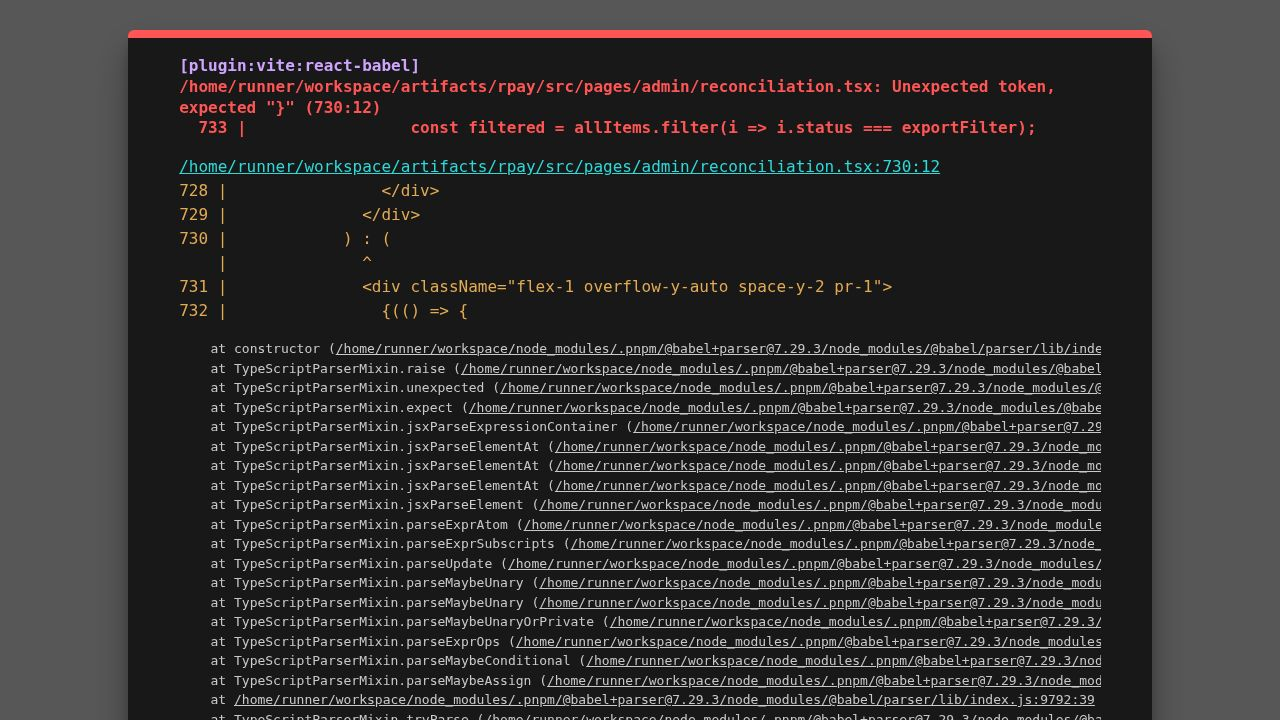
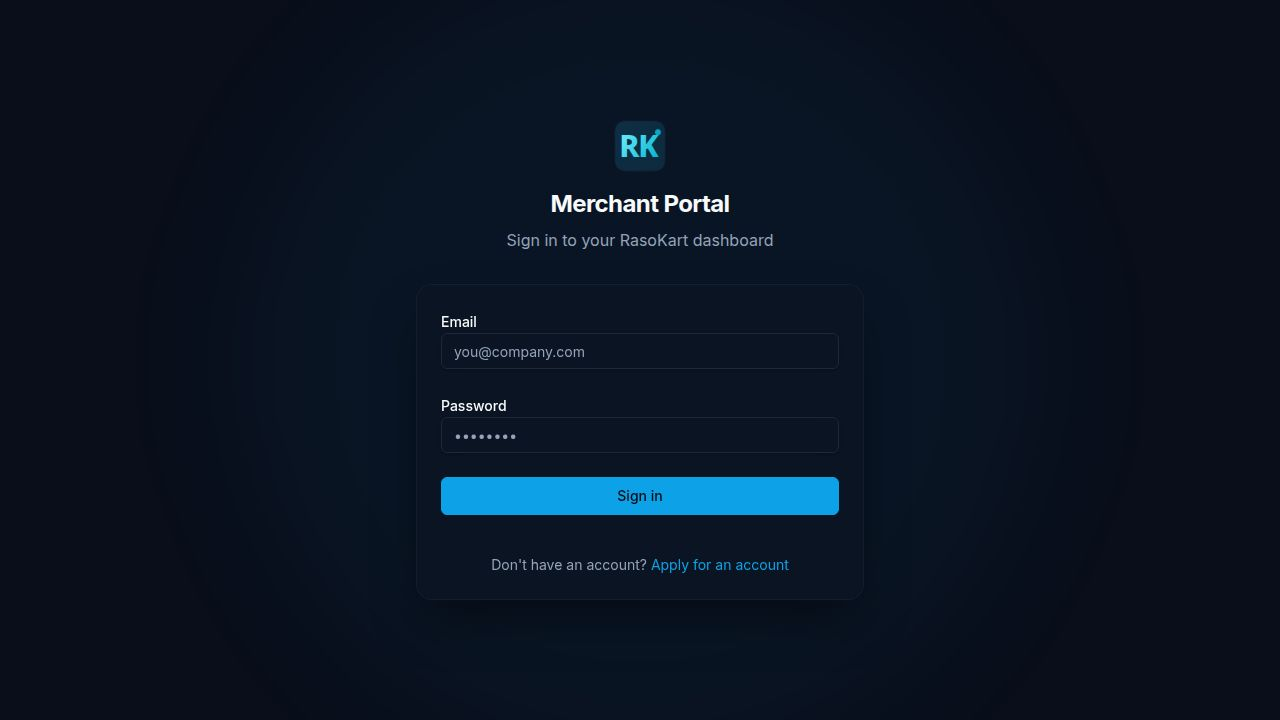
feat: filter CSV export by matched/unmatched status on reconciliation page
Task: Add a status filter dropdown to the reconciliation CSV export button so
auditors can download exactly the slice they need (all, matched, or unmatched).

## Changes

### artifacts/api-server/src/routes/reconciliation.ts
- Added support for ?status=unmatched in the export endpoint — maps to an OR
  condition covering both unmatched_deposit and unmatched_settlement rows.
  The existing matched, unmatched_deposit, and unmatched_settlement values
  continue to work unchanged.
- Filename reflects the filter (e.g. reconciliation-run-3-unmatched.csv).

### artifacts/rpay/src/pages/admin/reconciliation.tsx
- Added separate csvExportFilter state ("all" | "matched" | "unmatched"),
  independent from the existing view filter tabs (exportFilter).
- Replaced the plain Export CSV button with a split-button:
    - Left part: "Export CSV" button that triggers the download with the
      current csvExportFilter; shows "· Matched only" or "· Unmatched only"
      hint when a non-default filter is active.
    - Right part: ChevronDown button that opens a DropdownMenu with three
      items: All / Matched only / Unmatched only.
- Selecting from the dropdown updates csvExportFilter without triggering a
  download (download only happens when the main button is clicked).
- csvExportFilter is reset to "all" when the detail dialog is closed.
- Imported DropdownMenu, DropdownMenuContent, DropdownMenuItem,
  DropdownMenuSeparator, DropdownMenuTrigger from shadcn/ui.

## Notes
[…]

diff --git a/artifacts/rpay/src/pages/admin/reconciliation.tsx b/artifacts/rpay/src/pages/admin/reconciliation.tsx
@@ -9,7 +9,8 @@ import { Badge } from "@/components/ui/badge";
 import { Dialog, DialogContent, DialogHeader, DialogTitle } from "@/components/ui/dialog";
 import { Textarea } from "@/components/ui/textarea";
 import { Select, SelectContent, SelectItem, SelectTrigger, SelectValue } from "@/components/ui/select";
-import { GitMerge, Play, ArrowRightLeft, AlertTriangle, CheckCircle2, Clock, RefreshCw, ChevronRight, Link2, Zap, User, ShieldCheck, XCircle, Download } from "lucide-react";
+import { GitMerge, Play, ArrowRightLeft, AlertTriangle, CheckCircle2, Clock, RefreshCw, ChevronRight, Link2, Zap, User, ShieldCheck, XCircle, Download, ChevronDown } from "lucide-react";
+import { DropdownMenu, DropdownMenuContent, DropdownMenuItem, DropdownMenuSeparator, DropdownMenuTrigger } from "@/components/ui/dropdown-menu";
 import { toast } from "sonner";
 import { formatDistanceToNow } from "date-fns";
 
@@ -356,6 +357,7 @@ export default function AdminReconciliation() {
   const [selectedRunId, setSelectedRunId] = useState<number | null>(null);
   const [resolveItem, setResolveItem] = useState<any | null>(null);
   const [exportFilter, setExportFilter] = useState<"all" | "matched" | "unmatched_deposit" | "unmatched_settlement">("all");
+  const [csvExportFilter, setCsvExportFilter] = useState<"all" | "matched" | "unmatched">("all");
 
   const { data, isLoading, refetch } = useQuery({
     queryKey: ["/api/reconciliation/runs"],
@@ -547,6 +549,7 @@ export default function AdminReconciliation() {
           if (!open) {
             setSelectedRunId(null);
             setExportFilter("all");
+            setCsvExportFilter("all");
           }
         }}
       >
@@ -556,15 +559,16 @@ export default function AdminReconciliation() {
               <GitMerge className="w-4 h-4 text-primary" />
               Run #{selectedRunId} — Reconciliation Details
               <div className="ml-auto flex items-center gap-2">
-                <Button 
-                  variant="outline" 
-                  size="sm" 
-                  className="h-7 gap-1.5 text-xs"
-                  onClick={() => {
+                {(() => {
+                  const CSV_FILTER_LABELS: Record<string, string> = {
+                    all: "All",
+                    matched: "Matched only",
+                    unmatched: "Unmatched only",
+                  };
+                  function doExport(filter: "all" | "matched" | "unmatched") {
                     const token = getToken();
-                    const statusParam = exportFilter !== "all" ? `?status=${exportFilter}` : "";
-                    const suffix = exportFilter !== "all" ? `-${exportFilter}` : "";
-                    
+                    const statusParam = filter !== "all" ? `?status=${filter}` : "";
+                    const suffix = filter !== "all" ? `-${filter}` : "";
                     fetch(`/api/reconciliation/runs/${selectedRunId}/export.csv${statusParam}`, {
                       headers: { Authorization: `Bearer ${token}` },
                     })
@@ -581,11 +585,54 @@ export default function AdminReconciliation() {
                         URL.revokeObjectURL(url);
                       })
                       .catch(() => toast.error("Failed to export CSV"));
-                  }}
-                >
-                  <Download className="w-3.5 h-3.5" />
-                  Export CSV {exportFilter !== "all" && `(${exportFilter})`}
-                </Button>
+                  }
+                  return (
+                    <div className="flex items-center">
+                      <Button
+                        variant="outline"
+                        size="sm"
+                        className="h-7 gap-1.5 text-xs rounded-r-none border-r-0"
+                        onClick={() => doExport(csvExportFilter)}
+                      >
+                        <Download className="w-3.5 h-3.5" />
+                        Export CSV
+                        {csvExportFilter !== "all" && (
+                          <span className="text-primary/80">· {CSV_FILTER_LABELS[csvExportFilter]}</span>
+                        )}
+                      </Button>
+                      <DropdownMenu>
+                        <DropdownMenuTrigger asChild>
+                          <Button
+                            variant="outline"
+                            size="sm"
+                            className="h-7 px-1.5 rounded-l-none border-l-0 text-muted-foreground"
+                          >
+                            <ChevronDown className="w-3.5 h-3.5" />
+                          </Button>
+                        </DropdownMenuTrigger>
+                        <DropdownMenuContent align="end" className="w-44">
+                          {(["all", "matched", "unmatched"] as const).map((f, idx, arr) => (
+                            <div key={f}>
+                              <DropdownMenuItem
+                                className="text-xs gap-2"
+                                onSelect={() => setCsvExportFilter(f)}
+                              >
+                                {csvExportFilter === f && (
+                                  <CheckCircle2 className="w-3 h-3 text-primary shrink-0" />
+                                )}
+                                {csvExportFilter !== f && (
+                                  <span className="w-3 shrink-0" />
+                                )}
+                                {CSV_FILTER_LABELS[f]}
+                              </DropdownMenuItem>
+                              {idx < arr.length - 1 && <DropdownMenuSeparator />}
+                            </div>
+                          ))}
+                        </DropdownMenuContent>
+                      </DropdownMenu>
+                    </div>
+                  );
+                })()}
               </div>
             </DialogTitle>
           </DialogHeader>

diff --git a/artifacts/api-server/src/routes/reconciliation.ts b/artifacts/api-server/src/routes/reconciliation.ts
@@ -240,7 +240,18 @@ router.get("/runs/:id/export.csv", async (req, res, next) => {
     if (!run) { res.status(404).json({ error: "Run not found" }); return; }
 
     const conditions = [eq(reconciliationItemsTable.runId, runId)];
-    if (status && status !== "all") conditions.push(eq(reconciliationItemsTable.status, status));
+    if (status && status !== "all") {
+      if (status === "unmatched") {
+        conditions.push(
+          or(
+            eq(reconciliationItemsTable.status, "unmatched_deposit"),
+            eq(reconciliationItemsTable.status, "unmatched_settlement"),
+          )!
+        );
+      } else {
+        conditions.push(eq(reconciliationItemsTable.status, status));
+      }
+    }
 
     const where = and(...conditions);
 